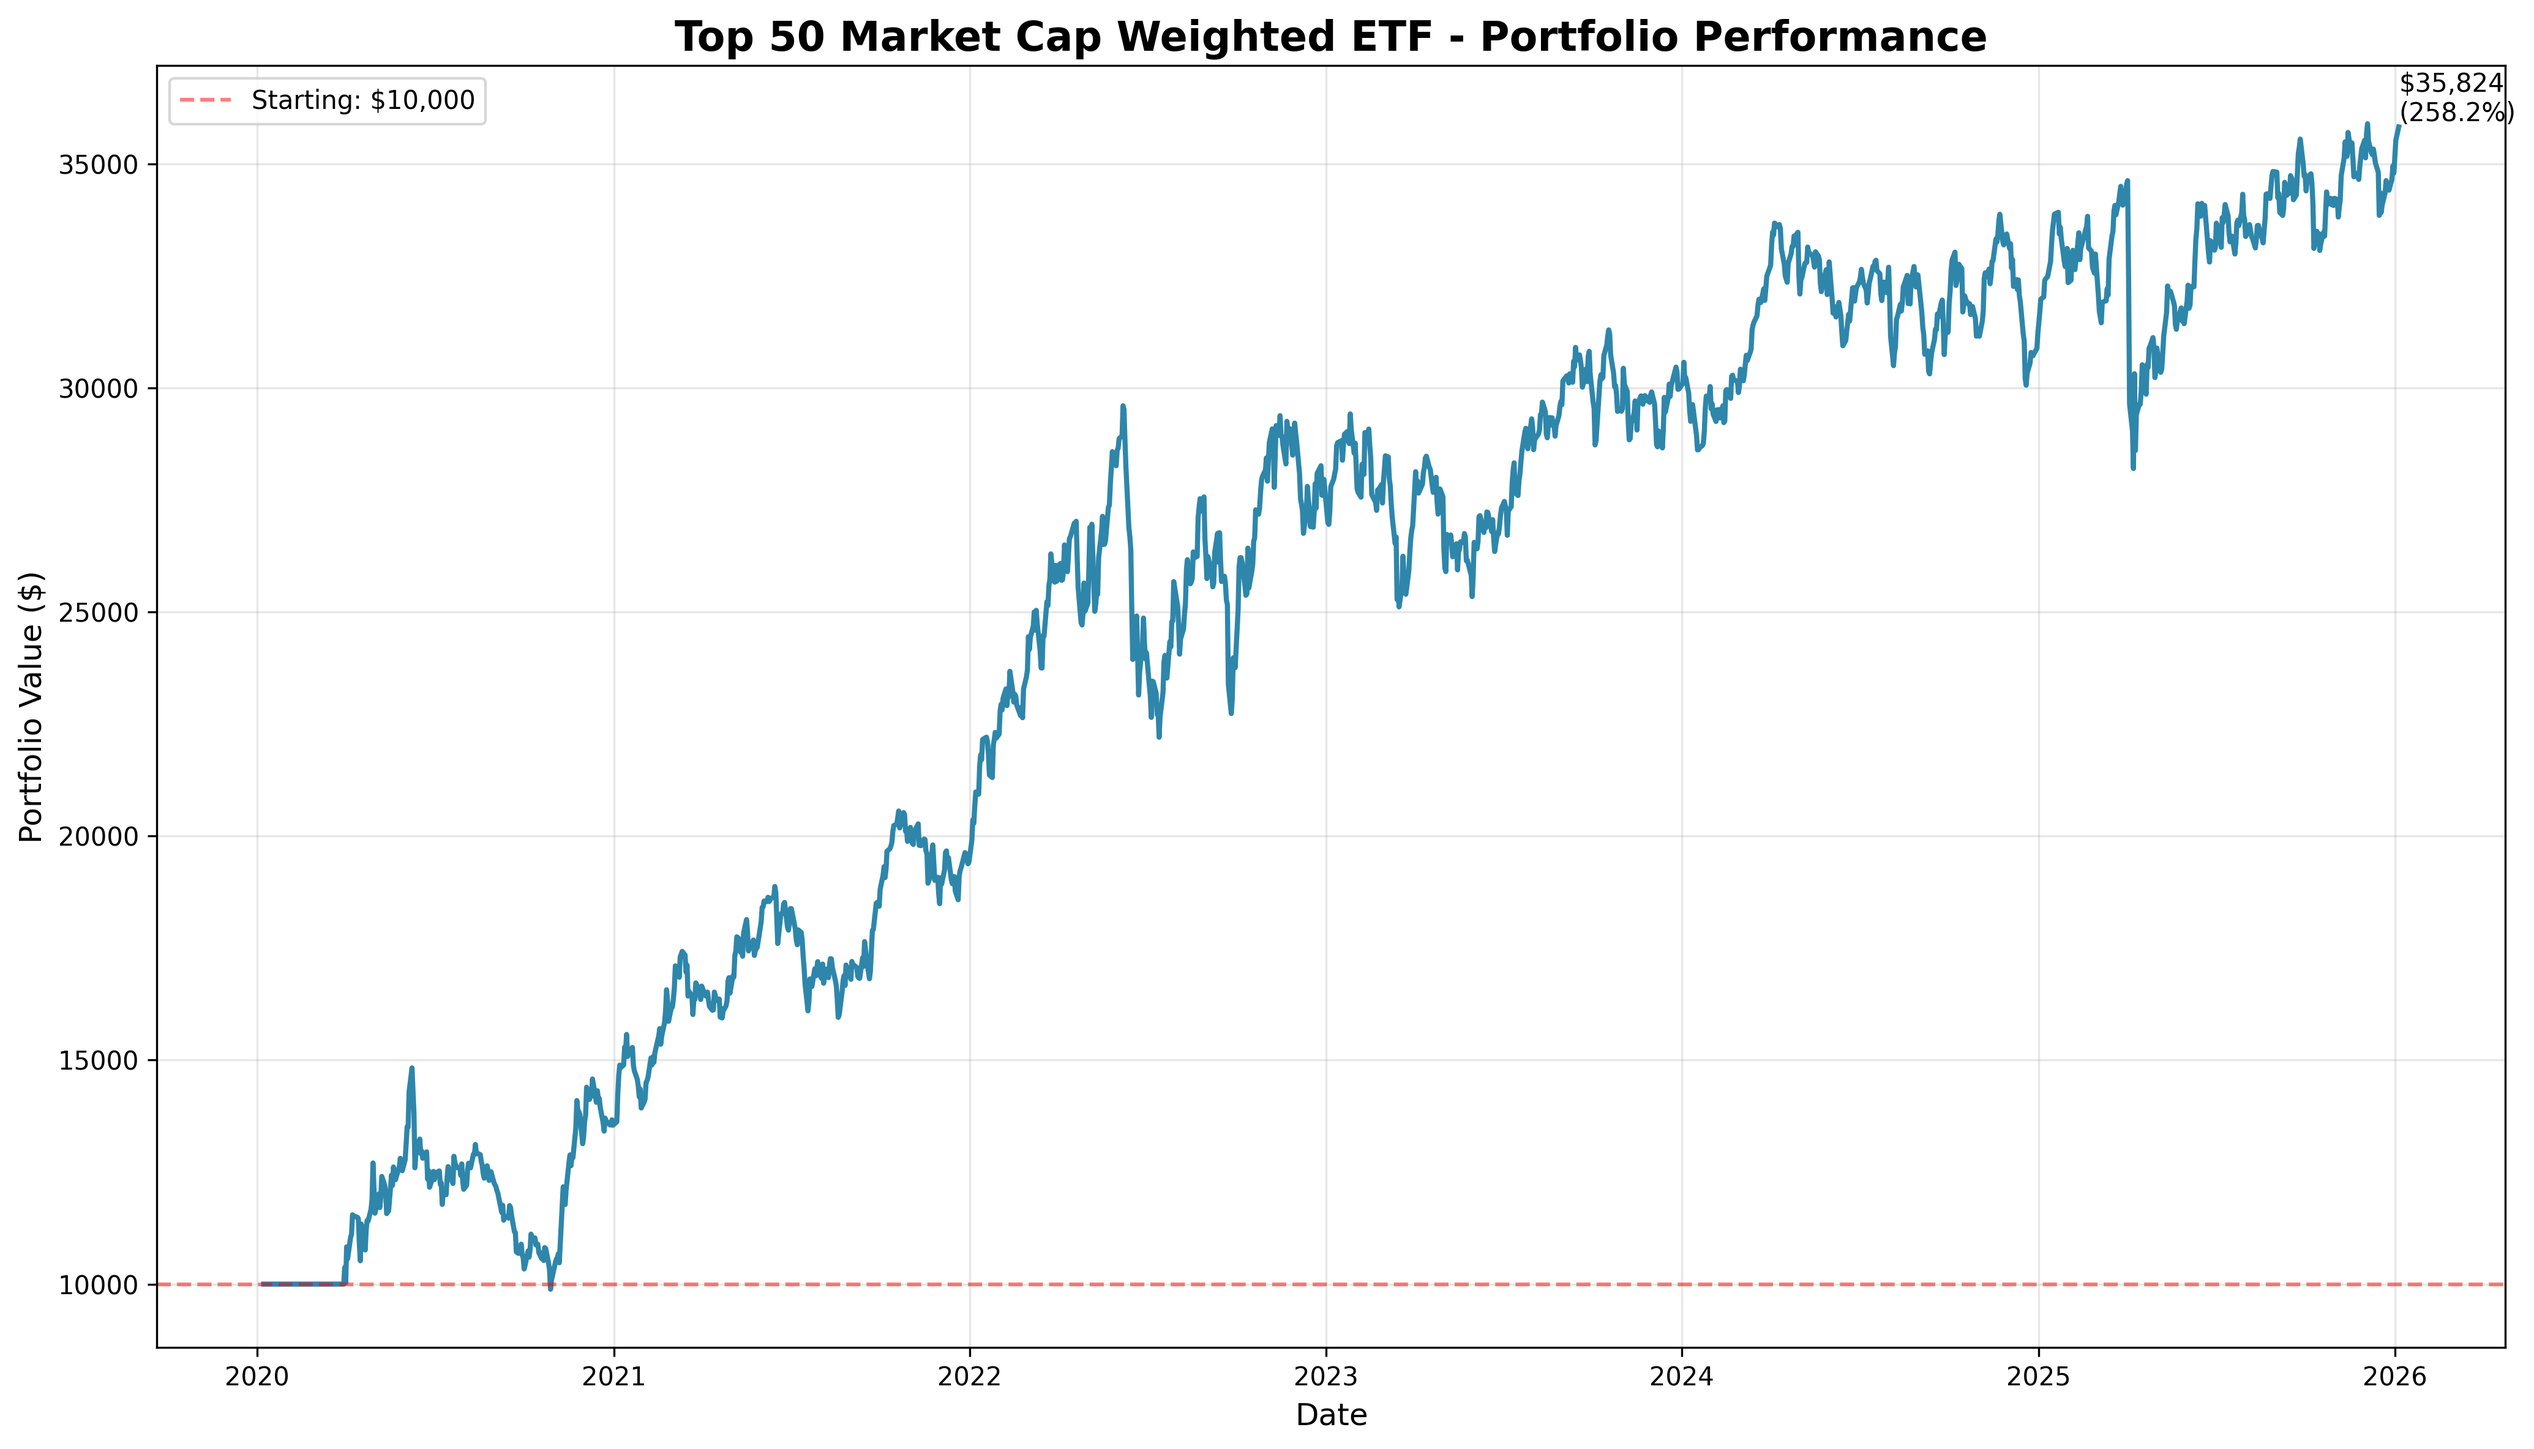
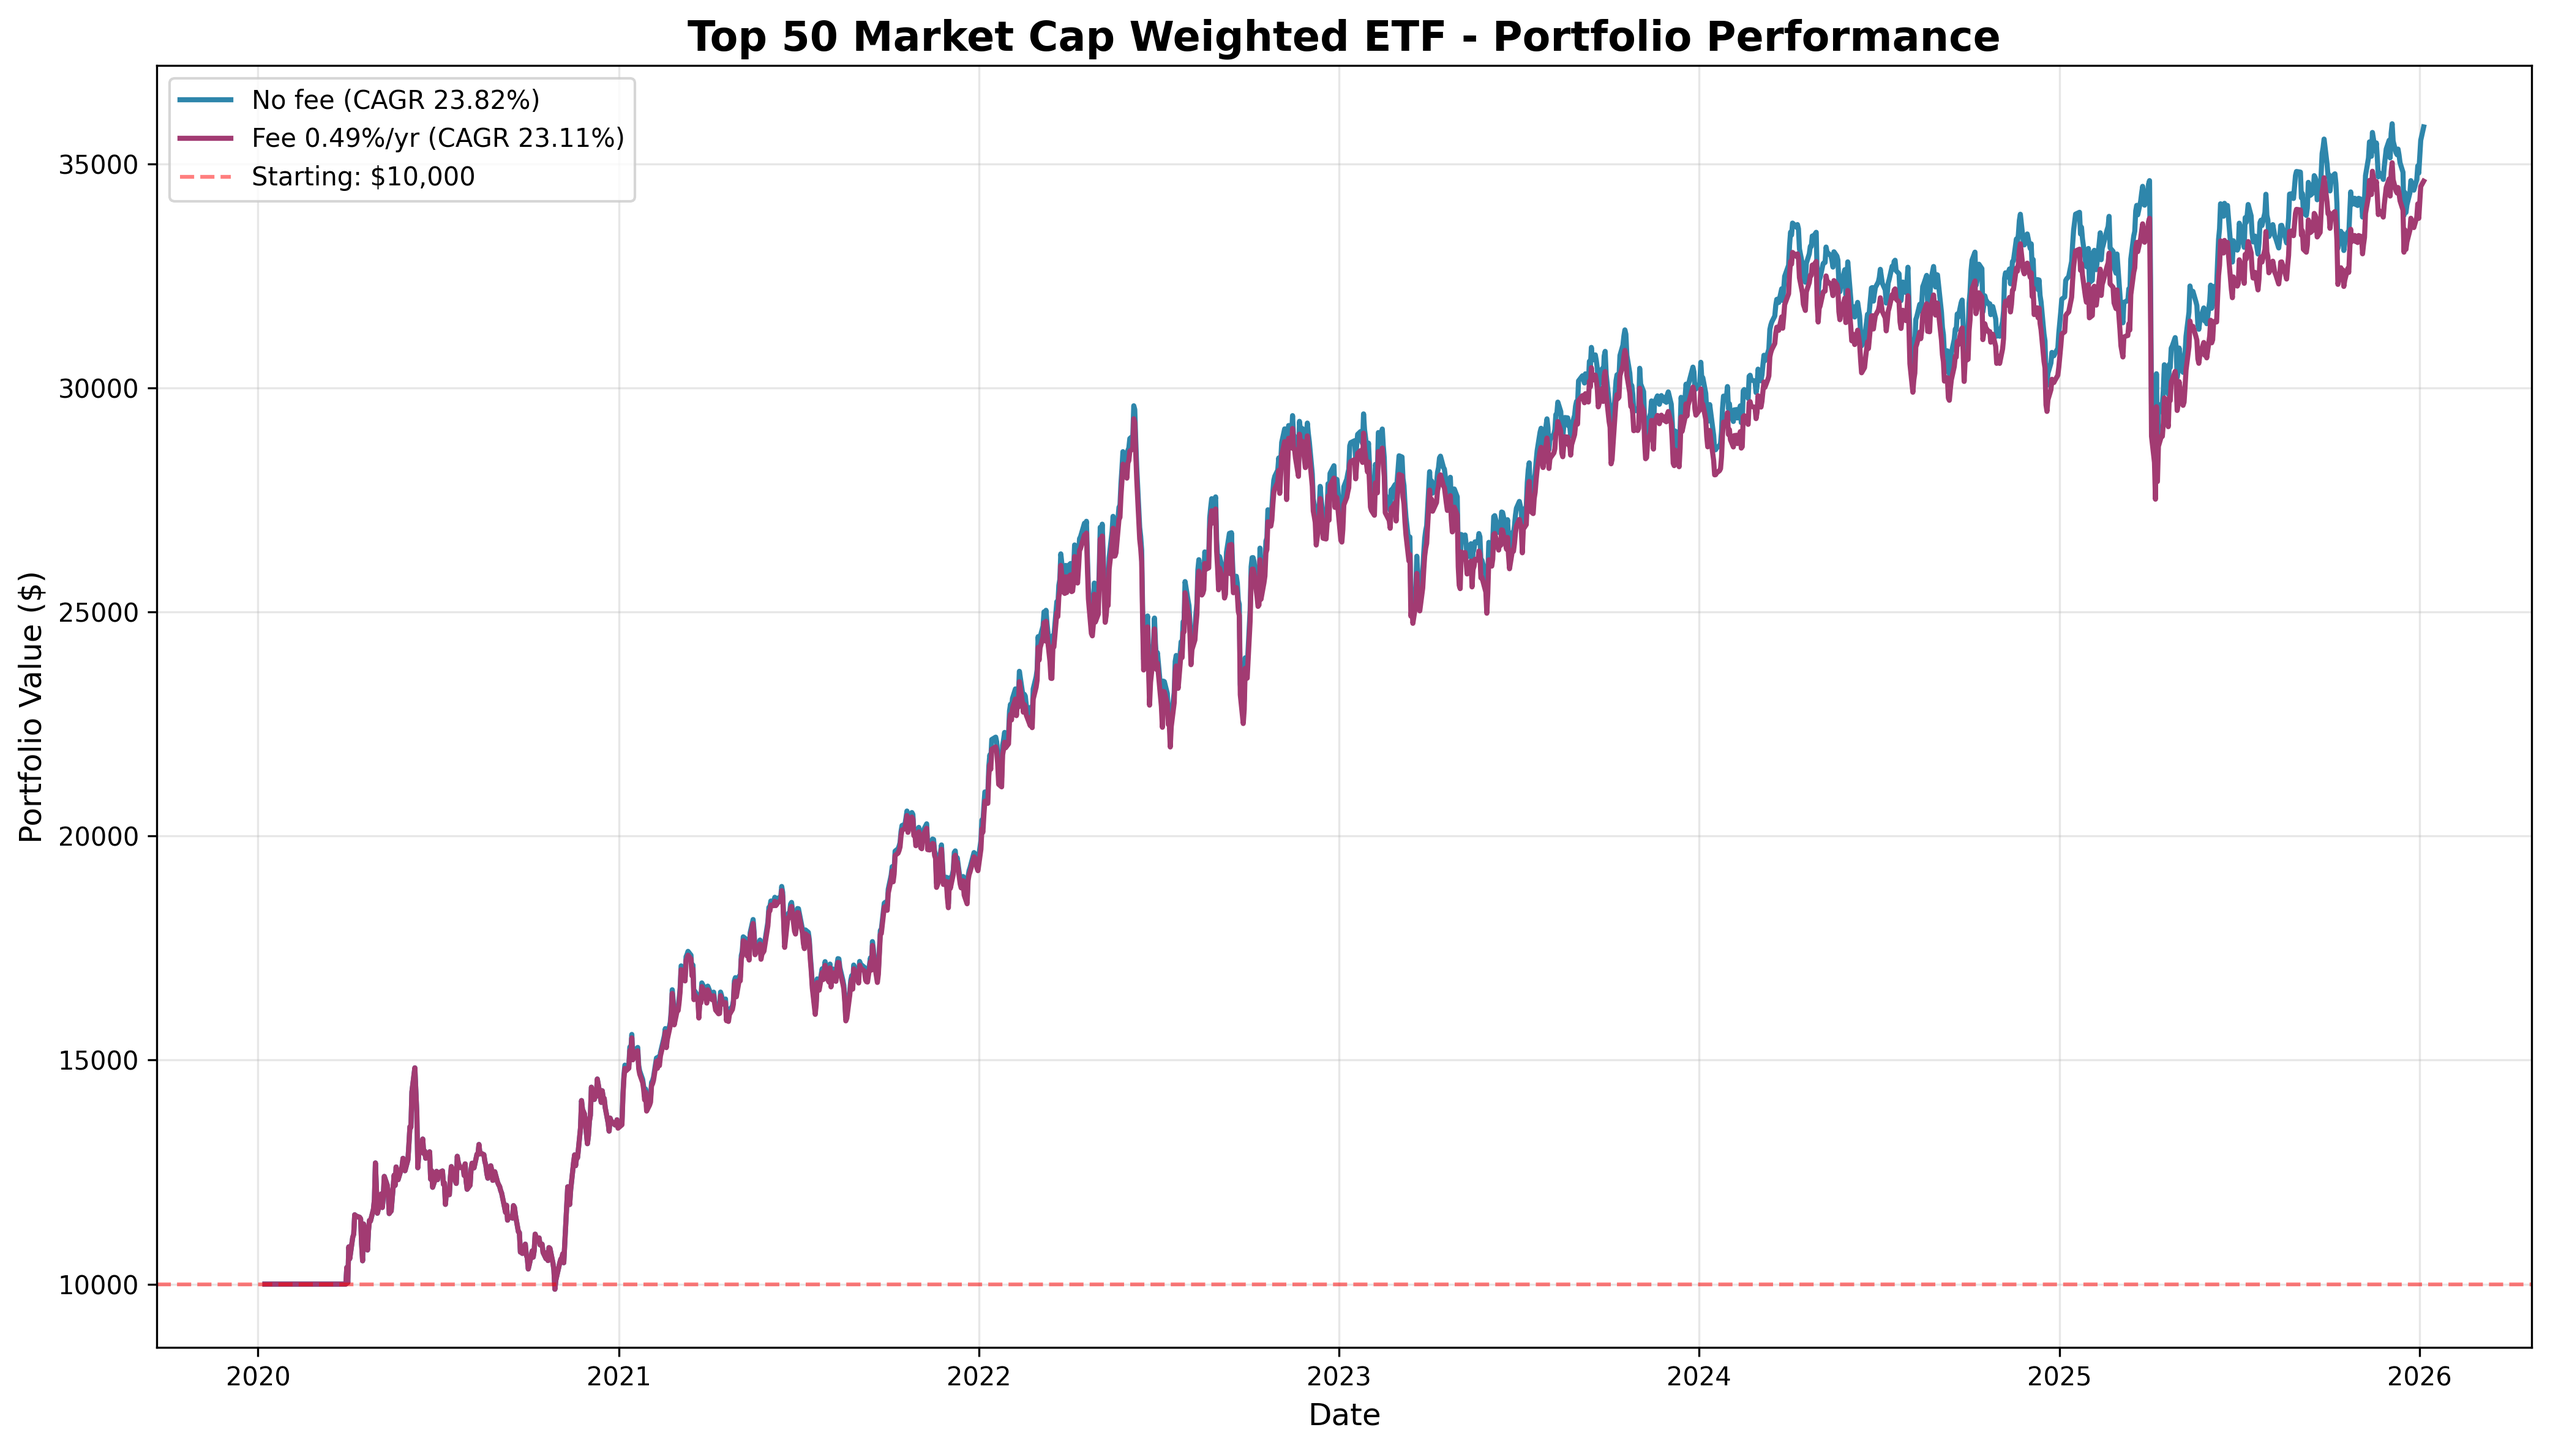
checked

diff --git a/backtest.py b/backtest.py
@@ -7,6 +7,7 @@ import os
 EXCEL_FILE = "yfinance_data.xlsx"
 TOP_N = 50
 INITIAL_VALUE = 10000
+ANNUAL_FEE = 0.0049  # 0.49% charged once per year (not daily)
 OUTPUT_DIR = "outputs"
 os.makedirs(OUTPUT_DIR, exist_ok=True)
 
@@ -89,15 +90,24 @@ rebalance_dates = sorted(set(rebalance_dates))
 
 print(f"Rebalancing quarterly: {len(rebalance_dates)} dates")
 
+# Annual fee dates = last trading day of each calendar year in our index
+year_end_dates = (
+    pd.Series(index=market_cap_panel.index, data=1)
+    .groupby(market_cap_panel.index.to_period("Y"))
+    .tail(1)
+    .index
+)
+year_end_dates = set(year_end_dates)
+
 # Backtest
 print("Running backtest...")
-portfolio_value = pd.Series(index=market_cap_panel.index, dtype=float)
+portfolio_value = pd.Series(index=market_cap_panel.index, dtype=float)         # no fee
+portfolio_value_fee = pd.Series(index=market_cap_panel.index, dtype=float)     # annual fee applied at year-end
 portfolio_value.iloc[0] = INITIAL_VALUE
+portfolio_value_fee.iloc[0] = INITIAL_VALUE
 holdings = {}
 
 for i, date in enumerate(market_cap_panel.index[1:], start=1):
-    prev_date = market_cap_panel.index[i-1]
-    
     # Rebalance on quarterly dates
     if date in rebalance_dates:
         mcap = market_cap_panel.loc[date].dropna()
@@ -114,30 +124,42 @@ for i, date in enumerate(market_cap_panel.index[1:], start=1):
             if t in returns_panel.columns and pd.notna(returns_panel.loc[date, t])
         )
         portfolio_value.iloc[i] = portfolio_value.iloc[i-1] * (1 + daily_return)
+        portfolio_value_fee.iloc[i] = portfolio_value_fee.iloc[i-1] * (1 + daily_return)
     else:
         portfolio_value.iloc[i] = portfolio_value.iloc[i-1]
+        portfolio_value_fee.iloc[i] = portfolio_value_fee.iloc[i-1]
+
+    # Apply annual fee once per year (on last trading day of the year)
+    if date in year_end_dates:
+        portfolio_value_fee.iloc[i] *= (1.0 - ANNUAL_FEE)
 
 # Calculate returns
 returns = portfolio_value.pct_change().dropna()
 total_return = (portfolio_value.iloc[-1] / portfolio_value.iloc[0]) - 1
 cagr = (1 + total_return) ** (252 / len(returns)) - 1
 
+returns_fee = portfolio_value_fee.pct_change().dropna()
+total_return_fee = (portfolio_value_fee.iloc[-1] / portfolio_value_fee.iloc[0]) - 1
+cagr_fee = (1 + total_return_fee) ** (252 / len(returns_fee)) - 1
+
 print(f"\nResults:")
 print(f"  Total Return: {total_return:.2%}")
 print(f"  CAGR: {cagr:.2%}")
 print(f"  Final Value: ${portfolio_value.iloc[-1]:,.2f}")
+print(f"\nResults (With {ANNUAL_FEE:.2%} annual fee, charged once per year):")
+print(f"  Total Return: {total_return_fee:.2%}")
+print(f"  CAGR: {cagr_fee:.2%}")
+print(f"  Final Value: ${portfolio_value_fee.iloc[-1]:,.2f}")
 
 # Create graph
 plt.figure(figsize=(14, 8))
-plt.plot(portfolio_value.index, portfolio_value.values, linewidth=2, color='#2E86AB')
+plt.plot(portfolio_value.index, portfolio_value.values, linewidth=2, color='#2E86AB', label=f'No fee (CAGR {cagr:.2%})')
+plt.plot(portfolio_value_fee.index, portfolio_value_fee.values, linewidth=2, color='#A23B72', label=f'Fee {ANNUAL_FEE:.2%}/yr (CAGR {cagr_fee:.2%})')
 plt.title(f'Top {TOP_N} Market Cap Weighted ETF - Portfolio Performance', fontsize=16, fontweight='bold')
 plt.xlabel('Date', fontsize=12)
 plt.ylabel('Portfolio Value ($)', fontsize=12)
 plt.grid(True, alpha=0.3)
 plt.axhline(y=INITIAL_VALUE, color='r', linestyle='--', alpha=0.5, label=f'Starting: ${INITIAL_VALUE:,}')
-plt.text(portfolio_value.index[-1], portfolio_value.iloc[-1], 
-         f'${portfolio_value.iloc[-1]:,.0f}\n({total_return:.1%})', 
-         fontsize=10, verticalalignment='bottom')
 plt.legend()
 plt.tight_layout()
 plt.savefig(f"{OUTPUT_DIR}/portfolio_performance.png", dpi=300, bbox_inches='tight')
@@ -147,8 +169,10 @@ plt.show()
 # Save portfolio value
 portfolio_df = pd.DataFrame({
     'Date': portfolio_value.index,
-    'Portfolio_Value': portfolio_value.values,
-    'Daily_Return': portfolio_value.pct_change().values
+    'Portfolio_Value_No_Fee': portfolio_value.values,
+    'Portfolio_Value_With_Annual_Fee': portfolio_value_fee.values,
+    'Daily_Return_No_Fee': portfolio_value.pct_change().values,
+    'Daily_Return_With_Annual_Fee': portfolio_value_fee.pct_change().values
 })
 portfolio_df.to_csv(f"{OUTPUT_DIR}/portfolio_value.csv", index=False)
 print(f"Data saved to {OUTPUT_DIR}/portfolio_value.csv")
